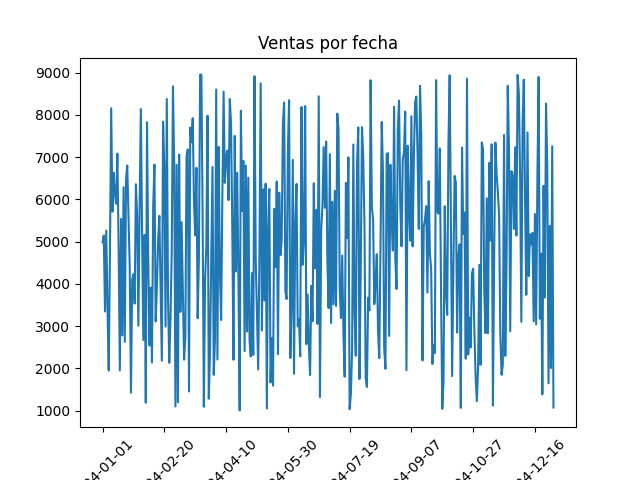
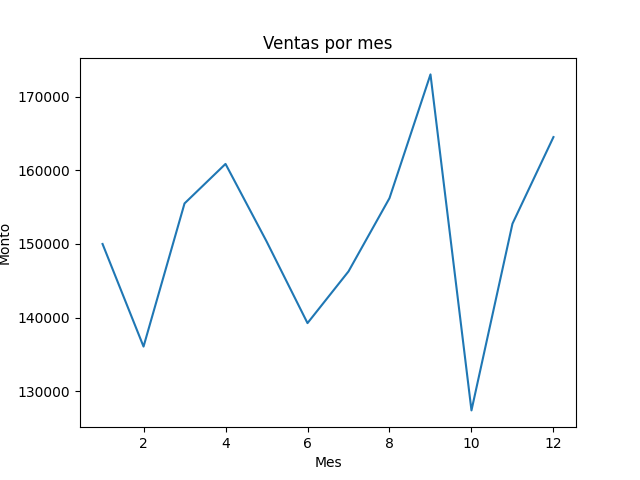
TP-2 Desarrollar scripts de analisis

diff --git a/scripts/analisis_ventas.py b/scripts/analisis_ventas.py
@@ -2,27 +2,40 @@
 import pandas as pd
 import matplotlib.pyplot as plt
 
-# Cargar datos
+# Cargar dataset
 datos = pd.read_csv("datos/ventas.csv")
 
 # Mostrar primeras filas
+print("\nPrimeros registros:")
 print(datos.head())
 
 # Ventas totales
 ventas_totales = datos["sales_amount"].sum()
+print("\nVentas totales:", ventas_totales)
 
-print("Ventas totales:", ventas_totales)
+# Promedio de ventas
+promedio = datos["sales_amount"].mean()
+print("Promedio:", promedio)
 
-# Ventas por fecha
-ventas_por_fecha = datos.groupby("sales_date")["sales_amount"].sum()
+# Venta máxima
+maxima = datos["sales_amount"].max()
+print("Venta máxima:", maxima)
+
+# Convertir fechas
+datos["sales_date"] = pd.to_datetime(datos["sales_date"])
+
+# Agrupar ventas por mes
+ventas_mes = datos.groupby(
+    datos["sales_date"].dt.month
+)["sales_amount"].sum()
 
 # Crear gráfico
-ventas_por_fecha.plot()
+ventas_mes.plot()
 
-plt.title("Ventas por fecha")
-plt.xticks(rotation=45)
+plt.title("Ventas por mes")
+plt.xlabel("Mes")
+plt.ylabel("Monto")
 
-# Guardar gráfico
 plt.savefig("resultados/grafico_ventas.png")
 
-print("Gráfico guardado correctamente")
+print("\nGráfico generado correctamente")